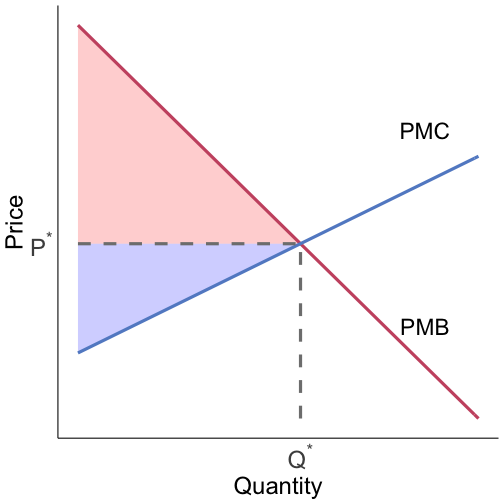
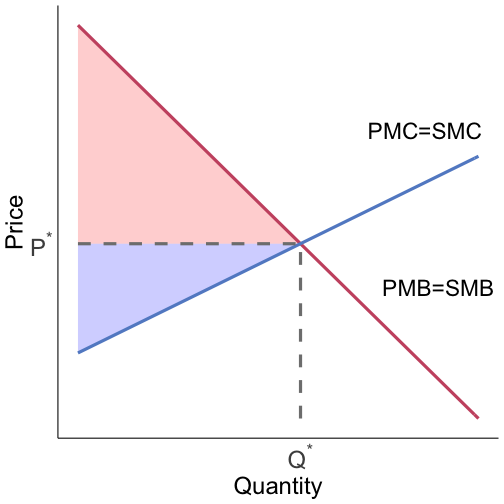
clean up figure in ln2

Changed region(s): [[0.744, 0.5357, 0.9821, 0.5952], [0.7143, 0.2381, 0.9524, 0.2976], [0.7738, 0.625, 0.8929, 0.6845]]

diff --git a/slides/02-slides-market-failures.html b/slides/02-slides-market-failures.html
@@ -32,6 +32,13 @@ exclude: true
 
 ```r
 if (!require("pacman")) install.packages("pacman")
+```
+
+```
+## Loading required package: pacman
+```
+
+```r
 pacman::p_load(
   tidyverse, xaringanExtra, rlang, patchwork, nycflights13, tweetrmd, vembedr
 )
